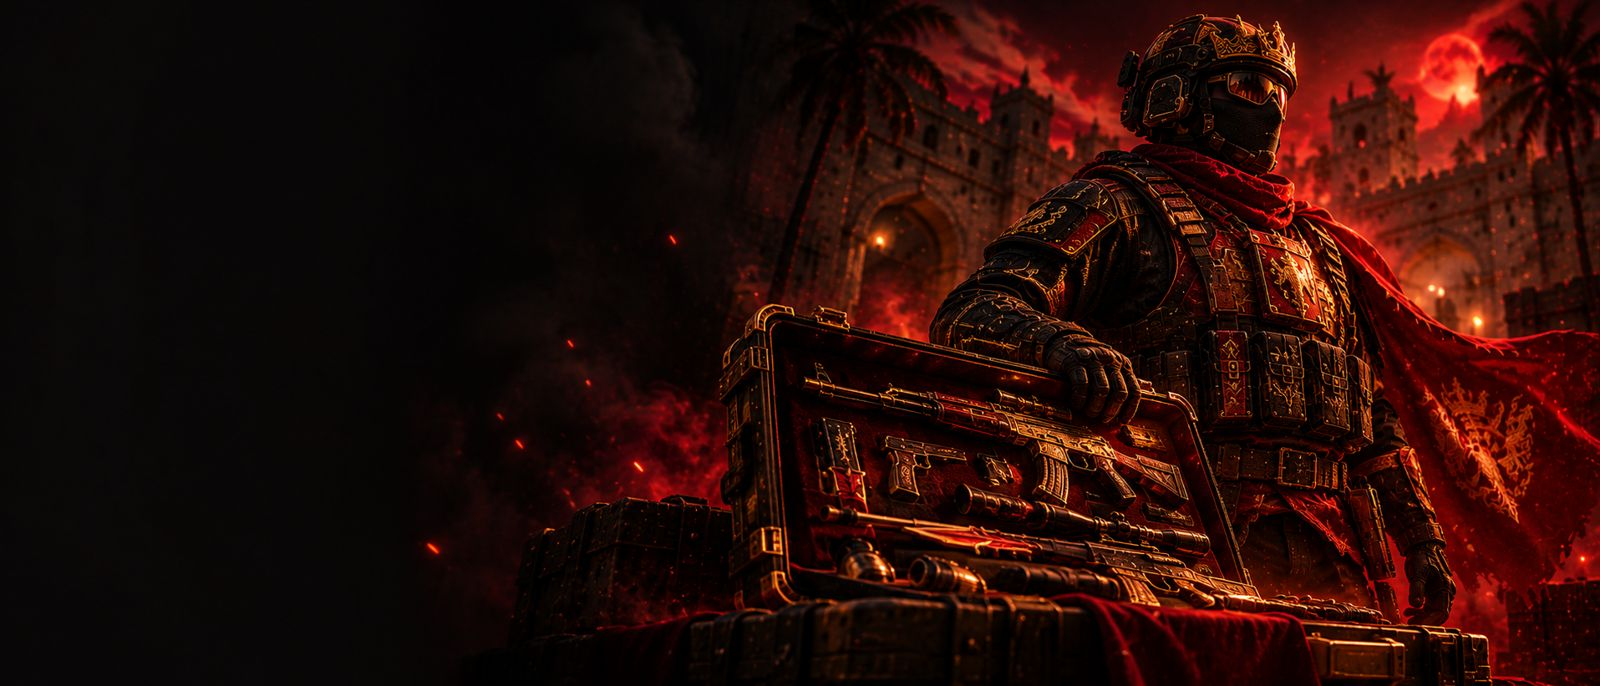
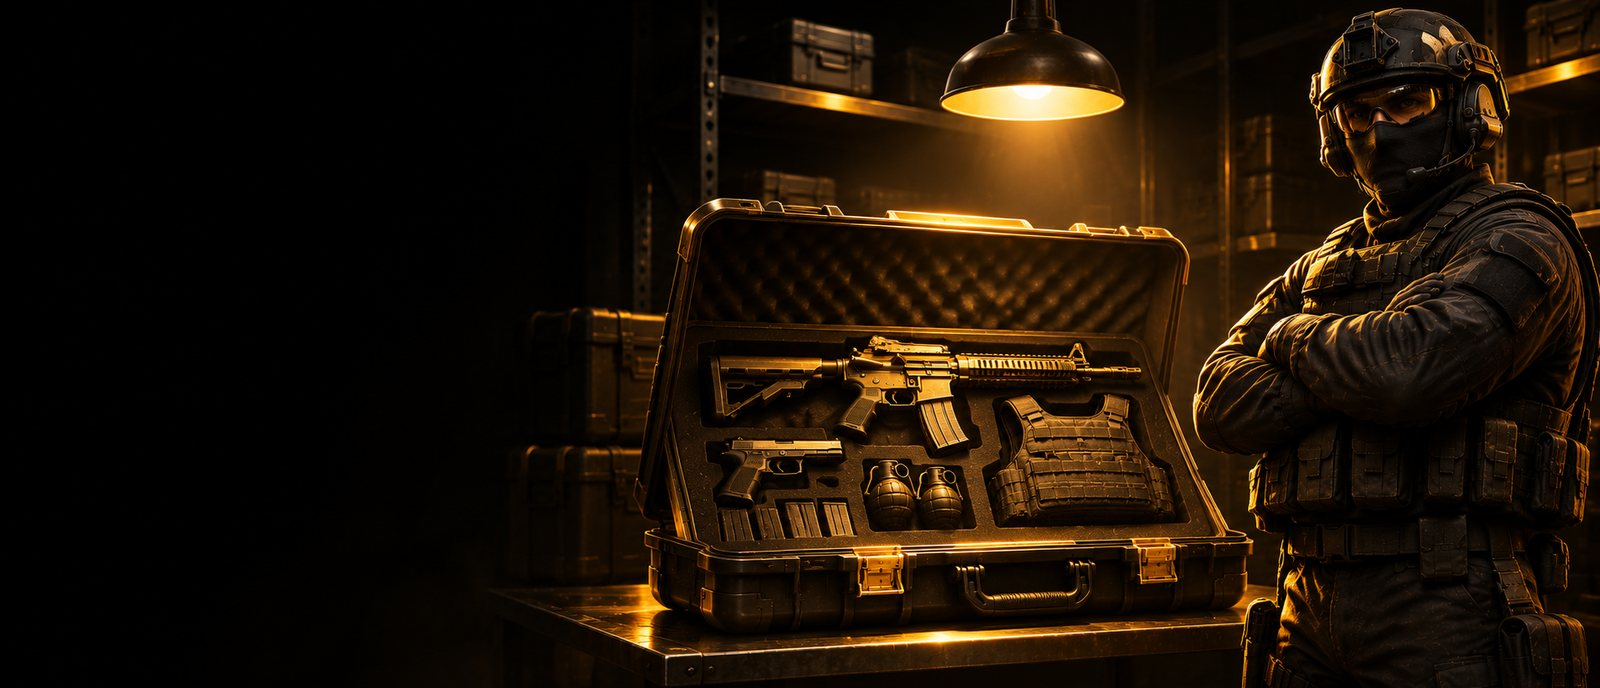
Золотые баннеры магазина и скинов
Claude-Session: https://claude.ai/code/session_012xAbwNHTjhA8EXRrYfLwFY

diff --git a/index.html b/index.html
@@ -1716,7 +1716,7 @@ body{background-image:none!important}
 
     <!-- SKINS -->
     <div class="view" id="v-skins" hidden>
-      <section class="pbanner" style="--bimg:var(--bnr-skins);--bpos:right 10%">
+      <section class="pbanner" style="--bimg:var(--bnr-skins);--bpos:right 55%">
         <div class="pb-text">
           <h1>Скины</h1>
           <p>Бесплатно для всех: выбери раскраску, износ и наклейку-имя для любого оружия, ножа и перчаток. Набор привязан к твоему Steam-аккаунту и применяется на сервере после следующего возрождения.</p>
